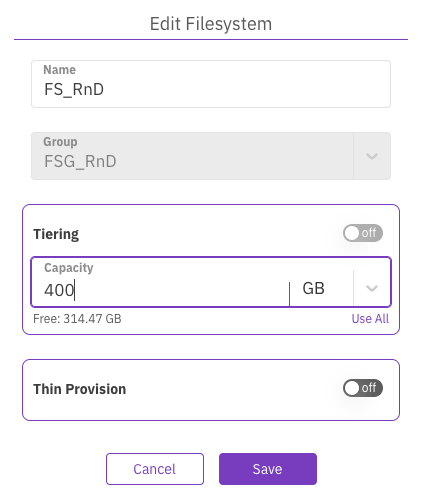
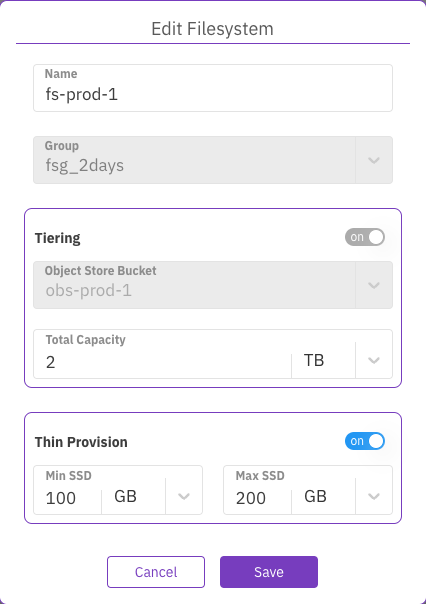
GitBook: [#28] Rewrite SMB section (cont.) and more

diff --git a/fs/managing-object-stores/README.md b/fs/managing-object-stores/README.md
@@ -1,84 +1,140 @@
 ---
-description: >-
-  This page describes how to view and manage object stores using the GUI and the
-  CLI.
+description: This page describes how to view and manage object stores using the GUI.
 ---
 
 # Manage object stores
 
-As described in the [Object Stores Overview](../../overview/filesystems.md#about-object-stores) page, Weka utilizes object stores for either tiering or backup when attaching object-store buckets to a filesystem.
+Object stores provide optional external storage media in addition to the SSD storage. Object stores are less expensive than SSD storage, therefore object store can be used for storing warm data (data infrequently accessed), while the SSD stores the hot data (data frequently accessed).
 
-Since object-store buckets may reside in different physical object stores, for better QoS between them, Weka requires the mapping between the bucket to the physical object-store.
+You can set object stores on the cloud in the same location as the Weka system (local object store), or at a remote location (remote object store).
 
-Object-store in Weka generally represents a physical entity (on-premises or in the cloud), grouping several object-store buckets. An object-store or object-store bucket can be either `local` (used for tiering+snapshots) or `remote` (used for snapshots only). An object-store bucket must be added to an object-store with the same type.&#x20;
+A local object store is used for tiering and snapshots (backup). A remote object store is used for snapshots only.
 
-This grouping under a physical object-store allows:
+The object store configuration includes:
 
-* Better QoS when more than one physical object-store is involved
-* Restrictions on downloading from a remote object-store
-  * By default, very low bandwidth is configured for downloading from a remote bucket since this may incur extra charges for on-premises systems where the remote bucket is in the cloud.
-* Ease-of adding new buckets
-  * It is possible to configure the connection parameters on the object-store level and, if not specified differently, automatically use them for added buckets.
+* Object store DNS name
+* Object store bucket identifier
+* Access credentials
 
-{% hint style="info" %}
-**Note:** Initially, the system comes up with two pre-configured object-stores, one for grouping`local` buckets for tiering and snapshots (named`default`) and one for grouping `remote` buckets for snapshots-only (named `remote_default`).
-{% endhint %}
+The object store bucket must be dedicated to the Weka system and must not be accessible by other applications. However, a single object store bucket can serve different filesystems and multiple Weka systems.
 
-{% hint style="info" %}
-**Note:** Currently, only one local and one remote object store are supported in general operation. It is only transiently supported to have more than one local object store when there is a need to recover from a remote snapshot (this recovery might incur significant charges when working with a cloud backup). If there is no other way (snapshot is not present locally) it is possible to use this procedure to [recover from a remote snapshot](../snap-to-obj.md#recovering-from-a-remote-snapshot).
+You can define up to three object store buckets for a filesystem:
 
-Support for more than one local/remote object-stores planned in a future version.
-{% endhint %}
+* One object store bucket for tiering, writeable
+* Second object store bucket for tiering, read-only
+* Third object store bucket for backup only
+
+&#x20;In this setup, the Weka system searches the data in the SSD, and both the tiered object stores, writeable and read-only. This setup enables a range of use cases:
+
+* Migration to different object stores
+* Scaling of object store capacity
+* Increasing the total tiering capacity of filesystems
 
 ## Manage object stores using the GUI
 
 Using the GUI, you can perform the following actions:
 
+* [Edit the default object stores](./#undefined)
 * [View object store buckets](./#view-object-store-buckets-using-the-gui)
 * [Add an object store bucket](./#add-an-object-store-bucket-using-the-gui)
 * [Edit an object store bucket](./#edit-an-object-store-bucket-using-the-gui)
 * [Delete an object store bucket](./#delete-an-object-store-bucket)
 
+### Edit the default object stores
+
+Object store buckets can reside in different physical object stores. To achieve good QoS between the buckets, Weka requires to map the buckets to the same physical object store.
+
+You can edit the default local and remote object stores to meet your connection demands. When you add an object store bucket, you apply the relevant default object store on the bucket.
+
+Editing the default object store provides you with the following additional advantages:
+
+* Set restrictions on downloads from a remote object store.\
+  For on-premises systems where the remote bucket is in the cloud, to reduce the cost, you set a very low bandwidth for downloading from a remote bucket.
+* Ease of adding new buckets.\
+  You can set the connection parameters on the object store level and, if not specified differently, automatically use the default settings for the buckets you add.
+
+**Procedure**
+
+1. From the menu, select **Manage > Object Stores**.
+2. On the left, select the pencil icon near the default object store you want to edit.
+3. On the **Edit Object Store** dialog, set the following:
+
+* **Type**: Select the type of object store: S3 AWS, HCP, or other.
+* **Buckets Default Parameters**: Set the protocol, hostname, port, bucket folder, authentication method, region name, access key, and secret key. (If you have selected **S3 AWS**, the hostname, port, and authentication method are predefined.)
+
+![Edit a default object store](../../.gitbook/assets/wmng\_edit\_default\_obs.gif)
+
 ### View object store buckets
 
-The main object store screen in the GUI lists all existing object-store buckets and can also display information about a specific object-store bucket, including the bucket name, status and region.
+The object store buckets are displayed on the **Object Stores** page. Each object store indicates the status, bucket name, protocol (HTTP/HTTPS), port, region, object store location (local or remote), authentication method, and error (if exists).
 
-![Main Object Store View Screen](<../../.gitbook/assets/OBS main screen 3.5.png>)
+**Procedure**
+
+1. From the menu, select **Manage > Object Stores**.
+
+The following example shows two object store buckets.
+
+![View object store buckets](../../.gitbook/assets/wmng\_view\_obs\_buckets.png)
 
 ### Add an object store bucket
 
-From the main object store view screen, click the "+" button at the top left-hand side of the screen. The Configure Object Store dialog box will be displayed.
+Add object store buckets to be used for tiering or snapshots.
 
-![Configure Object Store Dialog Box](<../../.gitbook/assets/OBS add dialog 3.5.png>)
+**Procedure**
 
-Enter the relevant parameters and click Configure to add the object store bucket.
+1. From the menu, select **Manage > Object Stores**.
+2. Select the **+Create** button.
 
-If the object store is misconfigured, the Error in Object Store Configuration window will be displayed.
+![Create object store bucket](../../.gitbook/assets/wmng\_create\_obs\_button.png)
 
-![Object Store Configuration Error Window](<../../.gitbook/assets/OBS add error 3.5.png>)
+&#x20;3\. In the **Create Object Store Bucket** dialog, set the following:
 
-Click Save Anyway in order to save the configured object store.
+* **Name**: Enter a meaningful name for the bucket.
+* **Object Store**: Select the location of the object store. For tiering and snapshots, select the local object store. For snapshots only, select the remote object store.
+* **Type**: Select the type of object store: S3 AWS, HCP, or other.
+* **Buckets Default Parameters**: Set the protocol, hostname, port, bucket folder, authentication method, region name, access key, and secret key. (If you have selected **S3 AWS**, the hostname, port, and authentication method are predefined.)
+
+![Create object store bucket](../../.gitbook/assets/wmng\_create\_obs\_bucket.png)
+
+4\. To validate the connection to the object store bucket, select **Validate**.
+
+5\. Optional. If your deployment requires a specific upload and download configuration, select **Advanced**, and set the parameters.
+
+![Advanced upload and download configuration](../../.gitbook/assets/wmng\_create\_obs\_advanced.png)
+
+6\. Select **Create**.
+
+{% hint style="info" %}
+If an error message about the object store bucket configuration appears, to save the configuration, select **Create Anyway**.
+{% endhint %}
+
+**Related topics**
+
+[data-management-in-tiered-filesystems.md](../tiering/data-management-in-tiered-filesystems.md "mention")
 
 ### Edit an object store bucket
 
-From the main object store view screen, click the Edit button of the object store bucket to be edited.
+You can modify the object store bucket parameters according to your demand changes over time. The parameters that you can modify include, filesystem name, capacity, tiering, and thin provisioning (but not encryption).
 
-![Edit Object Store Screen](<../../.gitbook/assets/OBS edit Screen 3.5.png>)
+**Procedure**
 
-The Update Object Store dialog box (which is similar to the Configure Object Store dialog box) will be displayed with the current specifications for the object store bucket.
+1. From the menu, select **Manage > Filesystems**.
+2. Select the three dots on the right of the filesystem you want to modify, and select **Edit**.
 
-![Update Object Store Dialog Box](<../../.gitbook/assets/OBS edit dialog 3.5.png>)
+![Edit an object store bucket](../../.gitbook/assets/wmng\_edit\_obs\_button.png)
 
-Make the relevant changes and click Update to update the object store bucket.
+3\. In the Edit Object Store Bucket dialog, modify the details, and select **Update**.
+
+![](../../.gitbook/assets/wmng\_edit\_obs.png)
 
 ### Delete an object store bucket
 
-From the main object store view screen, click the Delete button of the object-store bucket to be deleted.
+You can delete an object store bucket if it is no longer required.
 
-![Delete Object Store Screen](<../../.gitbook/assets/OBS delete screen 3.5.png>)
+**Procedure**
 
-The Deletion of Object Store window will be displayed.
+1. From the menu, select **Manage > Object Stores**.
+2. Select the three dots on the right of the object store bucket you want to delete, and select **Remove**.
+3. To confirm the object store bucket deletion, select **Yes**.
 
-![Deletion of Object Store Window](<../../.gitbook/assets/OBS delete dialog 3.5.png>)
-
-Click Yes to delete the object-store bucket.
+![Delete an object store bucket](../../.gitbook/assets/wmng\_delete\_obs.gif)

diff --git a/fs/managing-filesystems/README.md b/fs/managing-filesystems/README.md
@@ -33,23 +33,57 @@ The following example shows the predefined default filesystem.
 
 ### Add a filesystem
 
-A newly created Weka system contains a default filesystem, which is provisioned with the maximum capacity. If your deployment requires more filesystems with different settings, such as tiering, thin provisioning, and encryption, you can first reduce the provisioned capacity of the default filesystem, and then add a filesystem with the parameters that meet your specific needs.
+A newly created Weka system contains a default filesystem, which is provisioned with the maximum capacity. If your deployment requires more filesystems with different settings, such as tiering, thin provisioning, and encryption, first reduce the provisioned capacity of the default filesystem, and then add a filesystem with the parameters that meet your specific needs.
 
 **Before you begin**
 
-Verify that the system has free capacity.
+* Verify that the system has free capacity.
+* If tiering is required, verify that an object store bucket is set.
+* If encryption is required, verify that a KMS is configured.
 
 **Procedure**
 
 1. From the menu, select **Manage > Filesystems**.
 2. Select the **+Create** button.
-3. In the **Create Filesystem** dialog, set the parameters relevant to your deployment.
 
-![Create a filesystem](../../.gitbook/assets/wmng\_add\_fs\_animated.gif)
+![Create filesystem](../../.gitbook/assets/wmng\_create\_fs\_button.png)
 
-4\. Select **Save**.
+3\. In the **Create Filesystem** dialog, set the following:
 
-The filesystem is created. You can modify its parameters later, if necessary.
+* **Name**: Enter a meaningful name for the filesystem.
+* **Group**: Select the filesystem group that fits your filesystem.
+* **Capacity**: Enter the storage size to provision, or select **Use All** to provision all the free capacity.&#x20;
+
+![](../../.gitbook/assets/wmng\_create\_fs\_animated.gif)
+
+4\. Optional. If **Tiering** is required and an object store bucket is already defined, \
+&#x20;   select the toggle button, and set the details of the object store bucket:
+
+* **Object Store Bucket:** Select a predefined object store bucket from the list.
+* **Drive Capacity**: Enter the capacity to provision on the SSD, or select **Use All** to use all free capacity.
+* **Total Capacity**: Enter the total capacity of the object store bucket, including the drive capacity.
+
+![Tiering](../../.gitbook/assets/wmng\_fs\_tiering.png)
+
+5\. Optional. If **Thin Provision** is required, select the toggle button, and set the minimum \
+&#x20;   and the maximum capacity of the SSD.
+
+![Thin provisioning](../../.gitbook/assets/wmng\_fs\_thin\_provisioning.png)
+
+6\. Optional. If **Encryption** is required and your Weka system is deployed with a KMS, \
+&#x20;   select the toggle button.
+
+7\. Select **Save**.
+
+The filesystem is created.
+
+**Related topics**
+
+****[managing-filesystem-groups](../managing-filesystem-groups/ "mention")****
+
+****[managing-object-stores](../managing-object-stores/ "mention")****
+
+[kms-management.md](../kms-management.md "mention")
 
 ## Edit a filesystem
 
@@ -62,7 +96,7 @@ You can modify the filesystem parameters according to your demand changes over t
 
 ![Filesystem menu](../../.gitbook/assets/wmng\_edit\_fs\_menu.png)
 
-3\. In the **Edit Filesystem** dialog, modify the parameters according to your requirements.
+3\. In the **Edit Filesystem** dialog, modify the parameters according to your requirements. (See the parameter descriptions in the _Add a filesystem_ topic.)
 
 ![Edit a filesystem](../../.gitbook/assets/wmng\_edit\_fs.png)
 
@@ -75,7 +109,7 @@ You can delete a filesystem if it is no longer required.&#x20;
 **Procedure**
 
 1. From the menu, select **Manage > Filesystems**.
-2. Select the three dots on the right of the filesystem you want to modify, and select **Remove**.
+2. Select the three dots on the right of the filesystem you want to delete, and select **Remove**.
 3. To confirm the filesystem deletion, enter the filesystem name and select **Confirm**.
 
 ![Delete a filesystem](../../.gitbook/assets/wmng\_delete\_fs\_animated.gif)

diff --git a/fs/managing-filesystem-groups/README.md b/fs/managing-filesystem-groups/README.md
@@ -12,10 +12,10 @@ A filesystem group defines the policy of the drive retention period and the tier
 
 Using the GUI, you can perform the following actions:
 
-* View filesystem groups
-* Add filesystem groups
-* Edit filesystem groups
-* Delete filesystem groups
+* [View filesystem groups](./#view-filesystem-groups)
+* [Add filesystem groups](./#add-a-filesystem-group)
+* [Edit filesystem groups](./#edit-a-filesystem-group)
+* [Delete a filesystem group](./#delete-a-filesystem-group)
 
 ### View filesystem groups
 
@@ -29,7 +29,7 @@ The following example shows two filesystem groups defined in the system.
 
 ![Filesystem groups](../../.gitbook/assets/wmng\_view\_filesystem\_groups.png)
 
-## Add a filesystem group
+### Add a filesystem group
 
 Adding a filesystem group is a good practice when you want to apply a different group policy on specific filesystems.
 
@@ -39,10 +39,10 @@ If no filesystem group is added, the file system uses the default filesystem gro
 
 1. From the menu, select **Manage > Filesystems**.
 2. Select the + sign right to the Filesystem Groups title.
-3. In the **Create Filesystem Group** dialog, do the following:
-   * In the **Name** field, enter a meaningful name for the filesystem group.
-   * In the **Drive Retention Period**, set the number of days to keep the data on the SSD before it is copied to the object store. After this period, the copy of the data is deleted from the SSD.
-   * In the **Tiering Cue**, set the time to wait after the last update, before the data is copied from the SSD and sent to the object store.
+3. In the **Create Filesystem Group** dialog, set the following:
+   * **Name:** Enter a meaningful name for the filesystem group.
+   * **Drive Retention Period**: Set the number of days to keep the data on the SSD before it is copied to the object store. After this period, the copy of the data is deleted from the SSD.
+   * **Tiering Cue**: Set the time to wait after the last update, before the data is copied from the SSD and sent to the object store.
 
 ![Add a filesystem group](../../.gitbook/assets/wmng\_add\_fsg.gif)
 
@@ -54,7 +54,7 @@ To learn more about the drive retention period and tiering cue, see**:**
 
 [advanced-time-based-policies-for-data-storage-location.md](../tiering/advanced-time-based-policies-for-data-storage-location.md "mention")****
 
-## Edit a filesystem group
+### Edit a filesystem group
 
 You can edit the filesystem group policy according to your system requirements.
 
@@ -63,15 +63,13 @@ You can edit the filesystem group policy according to your system requirements.
 1. From the menu, select **Manage > Filesystems**.
 2. Select the filesystem group you want to edit.
 3. Select the pencil sign right to the filesystem group name.
-4. In the **Edit Filesystem Group** dialog, update the settings as you need.
-
-
+4. In the **Edit Filesystem Group** dialog, update the settings as you need. (See the parameter descriptions in the _Add a filesystem group_ topic.)
 
 ![Edit a filesystem group](../../.gitbook/assets/wmng\_edit\_fsg\_animated.gif)
 
 4\. Select **Update**.
 
-## Delete a filesystem group
+### Delete a filesystem group
 
 You can delete a filesystem group that is no longer used by any filesystem.
 

diff --git a/SUMMARY.md b/SUMMARY.md
@@ -1,6 +1,6 @@
 # Table of contents
 
-* [Weka Documentation](README.md)
+* [Weka documentation](README.md)
 
 ## Weka System Overview <a href="#overview" id="overview"></a>
 
@@ -47,12 +47,12 @@
 
 ## WekaFS Filesystems & Object Stores <a href="#fs" id="fs"></a>
 
+* [Manage object stores](fs/managing-object-stores/README.md)
+  * [Manage object stores using the CLI](fs/managing-object-stores/managing-object-stores.md)
 * [Manage filesystem groups](fs/managing-filesystem-groups/README.md)
   * [Manage filesystem groups using the CLI](fs/managing-filesystem-groups/manage-filesystem-groups-using-the-cli.md)
 * [Manage filesystems](fs/managing-filesystems/README.md)
   * [Manage filesystems using the CLI](fs/managing-filesystems/managing-filesystems.md)
-* [Manage object stores](fs/managing-object-stores/README.md)
-  * [Manage object stores using the CLI](fs/managing-object-stores/managing-object-stores.md)
 * [Attach/Detach object stores to/from filesystems](fs/attaching-detaching-object-stores-to-from-filesystems.md)
 * [KMS management](fs/kms-management.md)
 * [Advanced data lifecycle management](fs/tiering/README.md)

diff --git a/README.md b/README.md
@@ -2,7 +2,7 @@
 description: Welcome to the Weka documentation portal.
 ---
 
-# Weka Documentation
+# Weka documentation
 
 ## About Weka documentation
 
@@ -24,7 +24,7 @@ This portal contains all the documentation necessary for understanding and worki
 
 **Billing & licensing:** Presentation of the alternatives for Weka system licensing and billing.
 
-**Weka support:** Provides information on getting support for the Weka System.
+**Weka support:** Provides information on getting support for the Weka system.
 
 ## Documentation feedback
 
